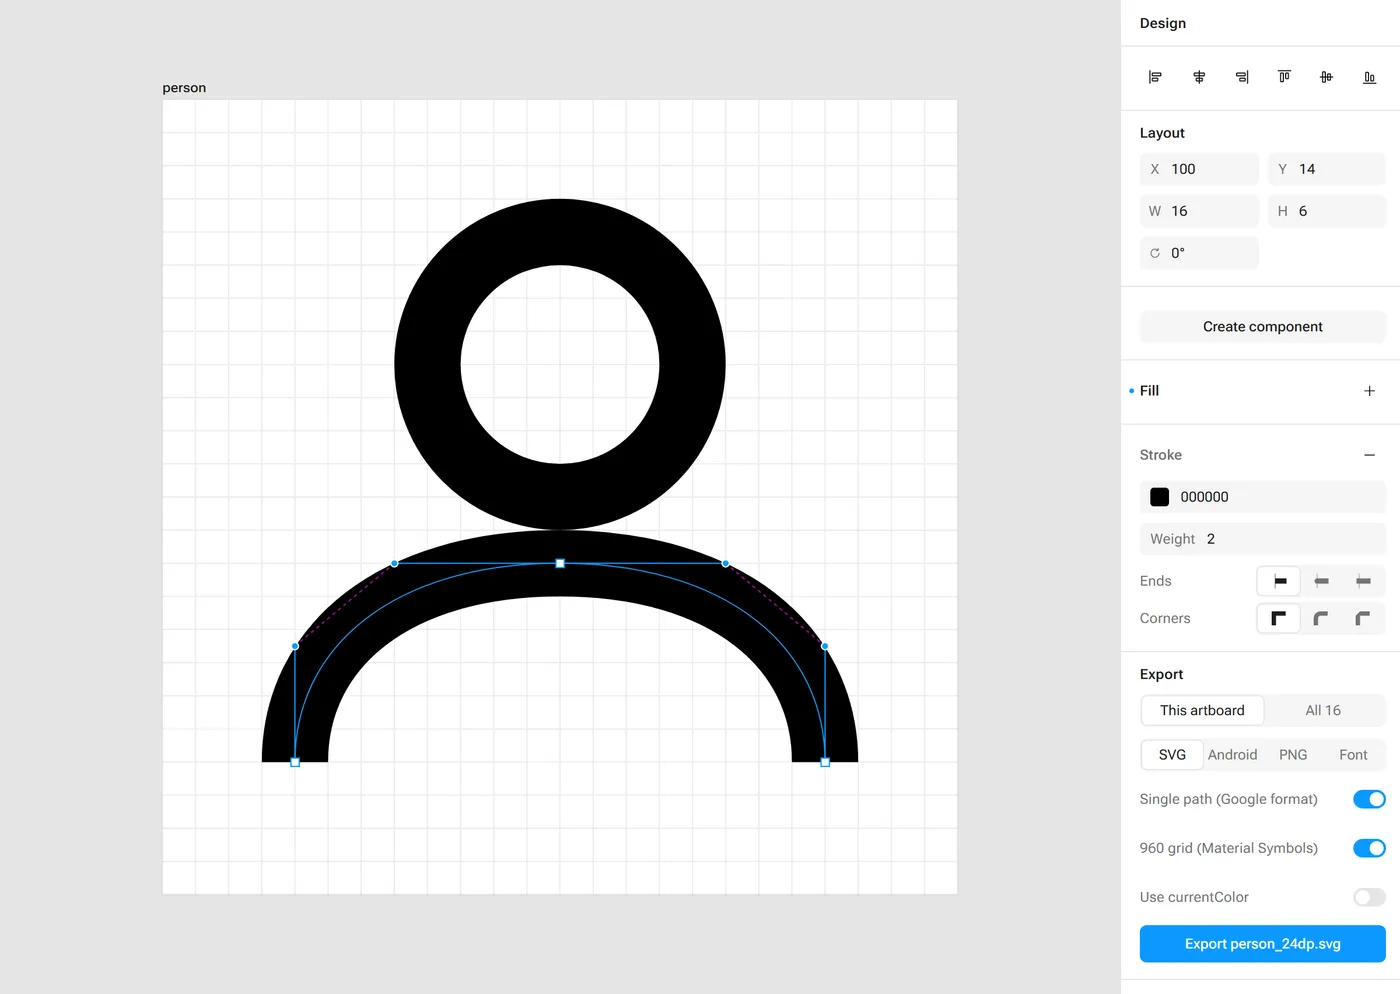
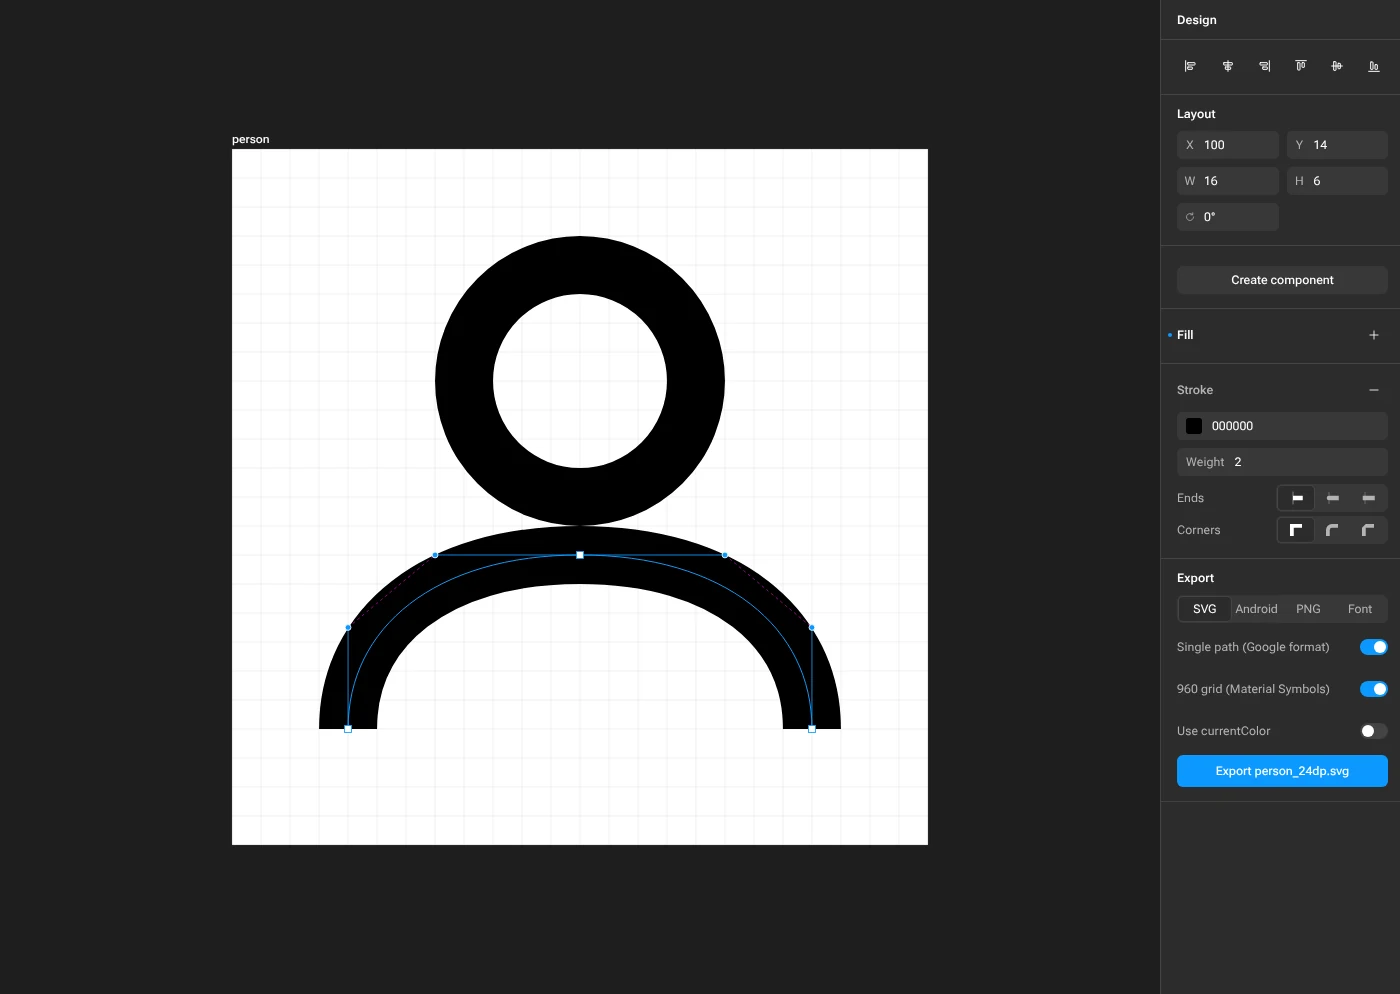
Iconic: dark-mode Tunni lines and Audit screenshots
Claude-Session: https://claude.ai/code/session_013pJPL3LCi7SwUCrpzMt7v3

diff --git a/iconic.html b/iconic.html
@@ -176,11 +176,11 @@
     </div>
     <div class="pair">
       <figure class="fig">
-        <button class="zoom" type="button" aria-label="Enlarge: Tunni lines"><div class="media"><img src="assets/img/iconic-tunni.webp" width="1400" height="994" alt="A person icon zoomed in with the shoulder curve selected: blue anchor points and handles, and dashed pink Tunni lines joining the handle ends on each side." loading="lazy"></div><span class="hint" aria-hidden="true"><span class="ms">zoom_in</span></span></button>
+        <button class="zoom" type="button" aria-label="Enlarge: Tunni lines"><div class="media"><img src="assets/img/iconic-tunni.webp?v=dark1" width="1400" height="994" alt="A person icon zoomed in with the shoulder curve selected: blue anchor points and handles, and dashed pink Tunni lines joining the handle ends on each side." loading="lazy"></div><span class="hint" aria-hidden="true"><span class="ms">zoom_in</span></span></button>
         <figcaption><b>Tunni lines</b> (dashed pink) shape both handles of a curve at once.</figcaption>
       </figure>
       <figure class="fig">
-        <button class="zoom" type="button" aria-label="Enlarge: Audit"><div class="media"><img src="assets/img/iconic-audit.webp" width="1400" height="994" alt="The same curve after a careless edit: orange markers on three points and an Audit panel listing three points off the pixel grid, each with a Fix button, plus Fix all." loading="lazy"></div><span class="hint" aria-hidden="true"><span class="ms">zoom_in</span></span></button>
+        <button class="zoom" type="button" aria-label="Enlarge: Audit"><div class="media"><img src="assets/img/iconic-audit.webp?v=dark1" width="1400" height="994" alt="The same curve after a careless edit: orange markers on three points and an Audit panel listing three points off the pixel grid, each with a Fix button, plus Fix all." loading="lazy"></div><span class="hint" aria-hidden="true"><span class="ms">zoom_in</span></span></button>
         <figcaption><b>Audit</b> marks problem points and fixes them one at a time or all at once.</figcaption>
       </figure>
     </div>
